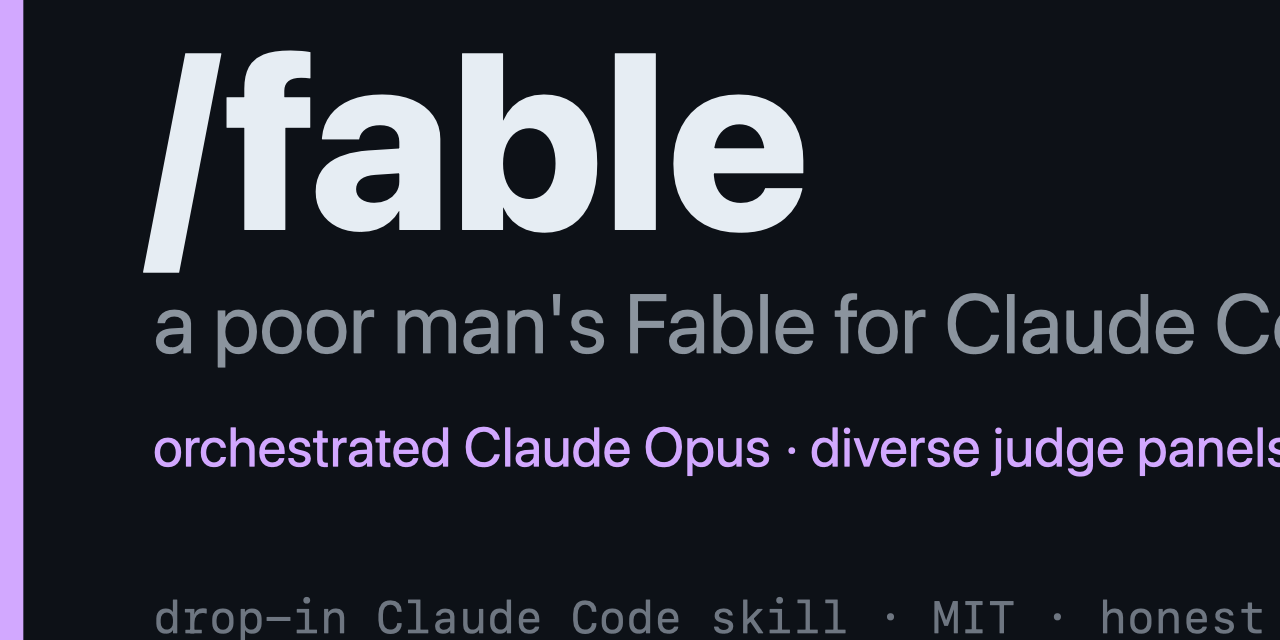
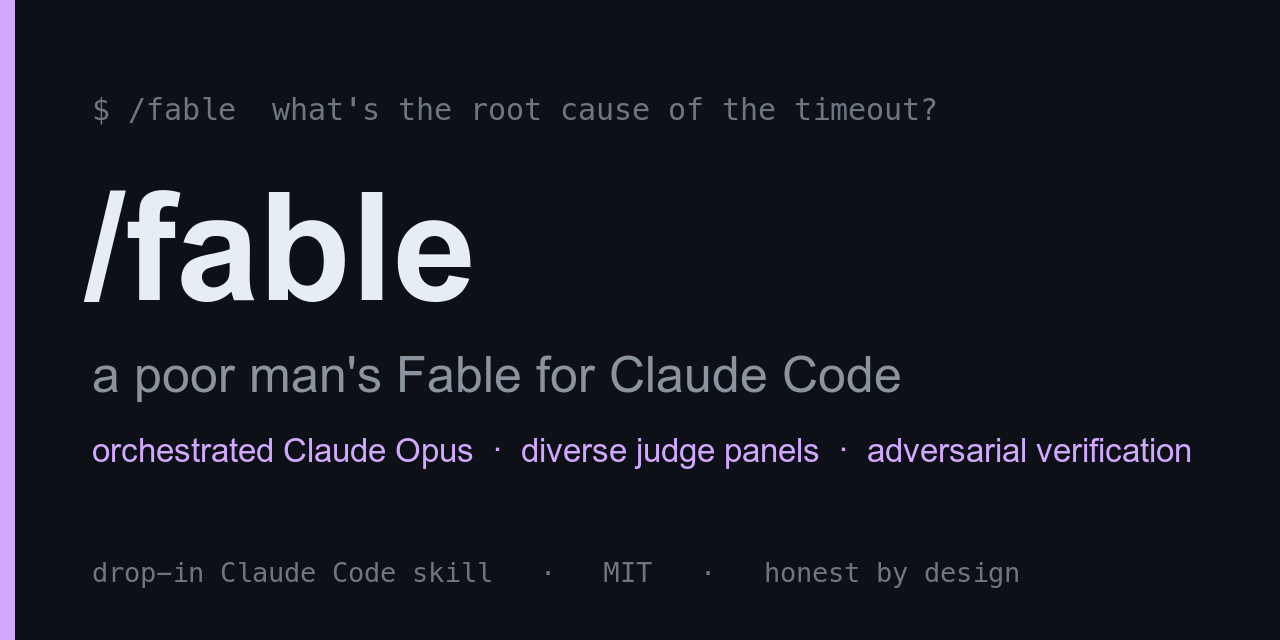
fix: regenerate demo + social-preview as flat sRGB PNGs (no alpha/profile)
The Quick Look export embedded an alpha channel + color profile that some viewers and GitHub's social-preview processor rendered as black. Rebuilt with ImageMagick + real fonts, flattened to opaque sRGB. README demo now uses the PNG.

diff --git a/README.md b/README.md
@@ -72,7 +72,7 @@ Then **restart Claude Code** (a new skill folder is picked up on restart). Now t
 
 ## What a run looks like
 
-![A /fable judge-panel run](assets/demo.svg)
+![A /fable judge-panel run](assets/demo.png)
 
 ```text
 > /fable what's the root cause of the intermittent auth timeouts?
